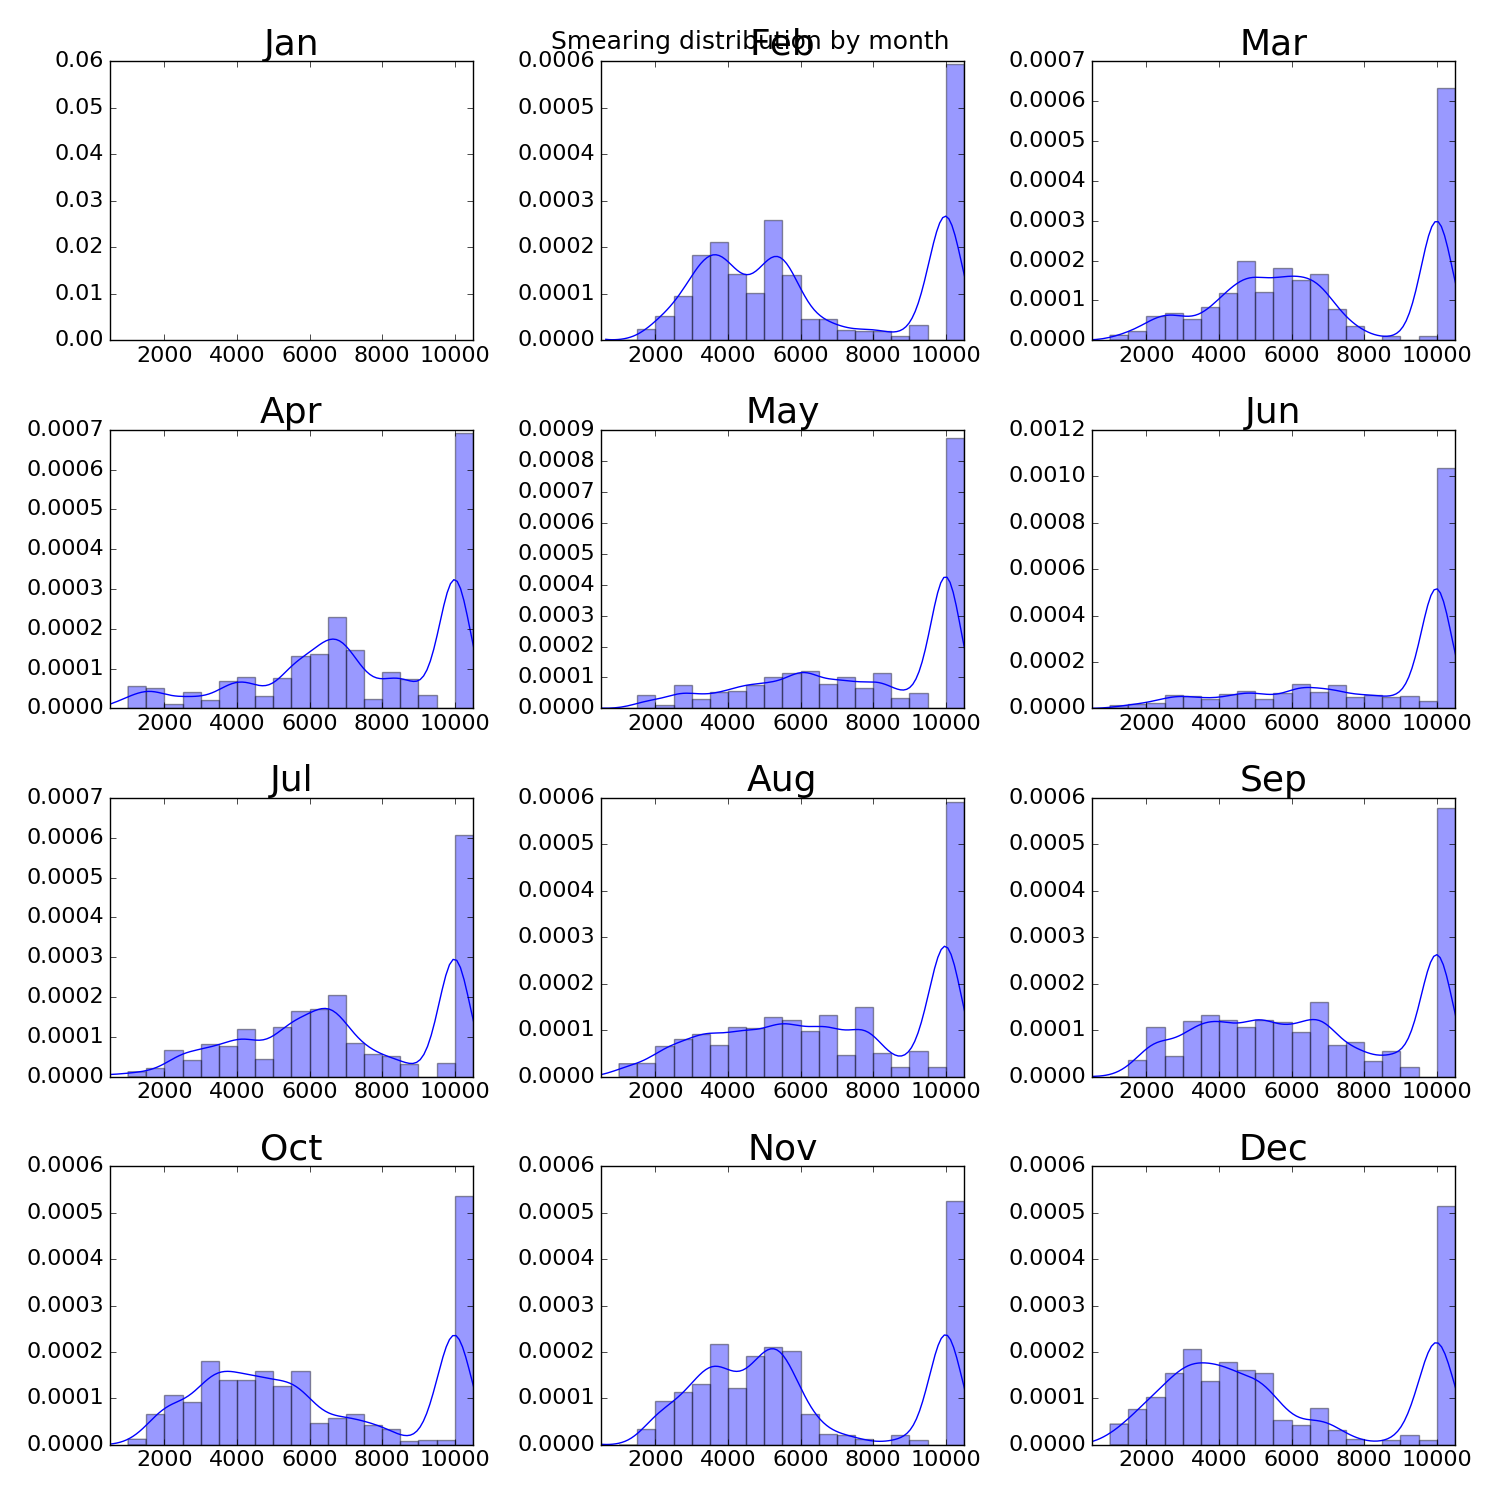
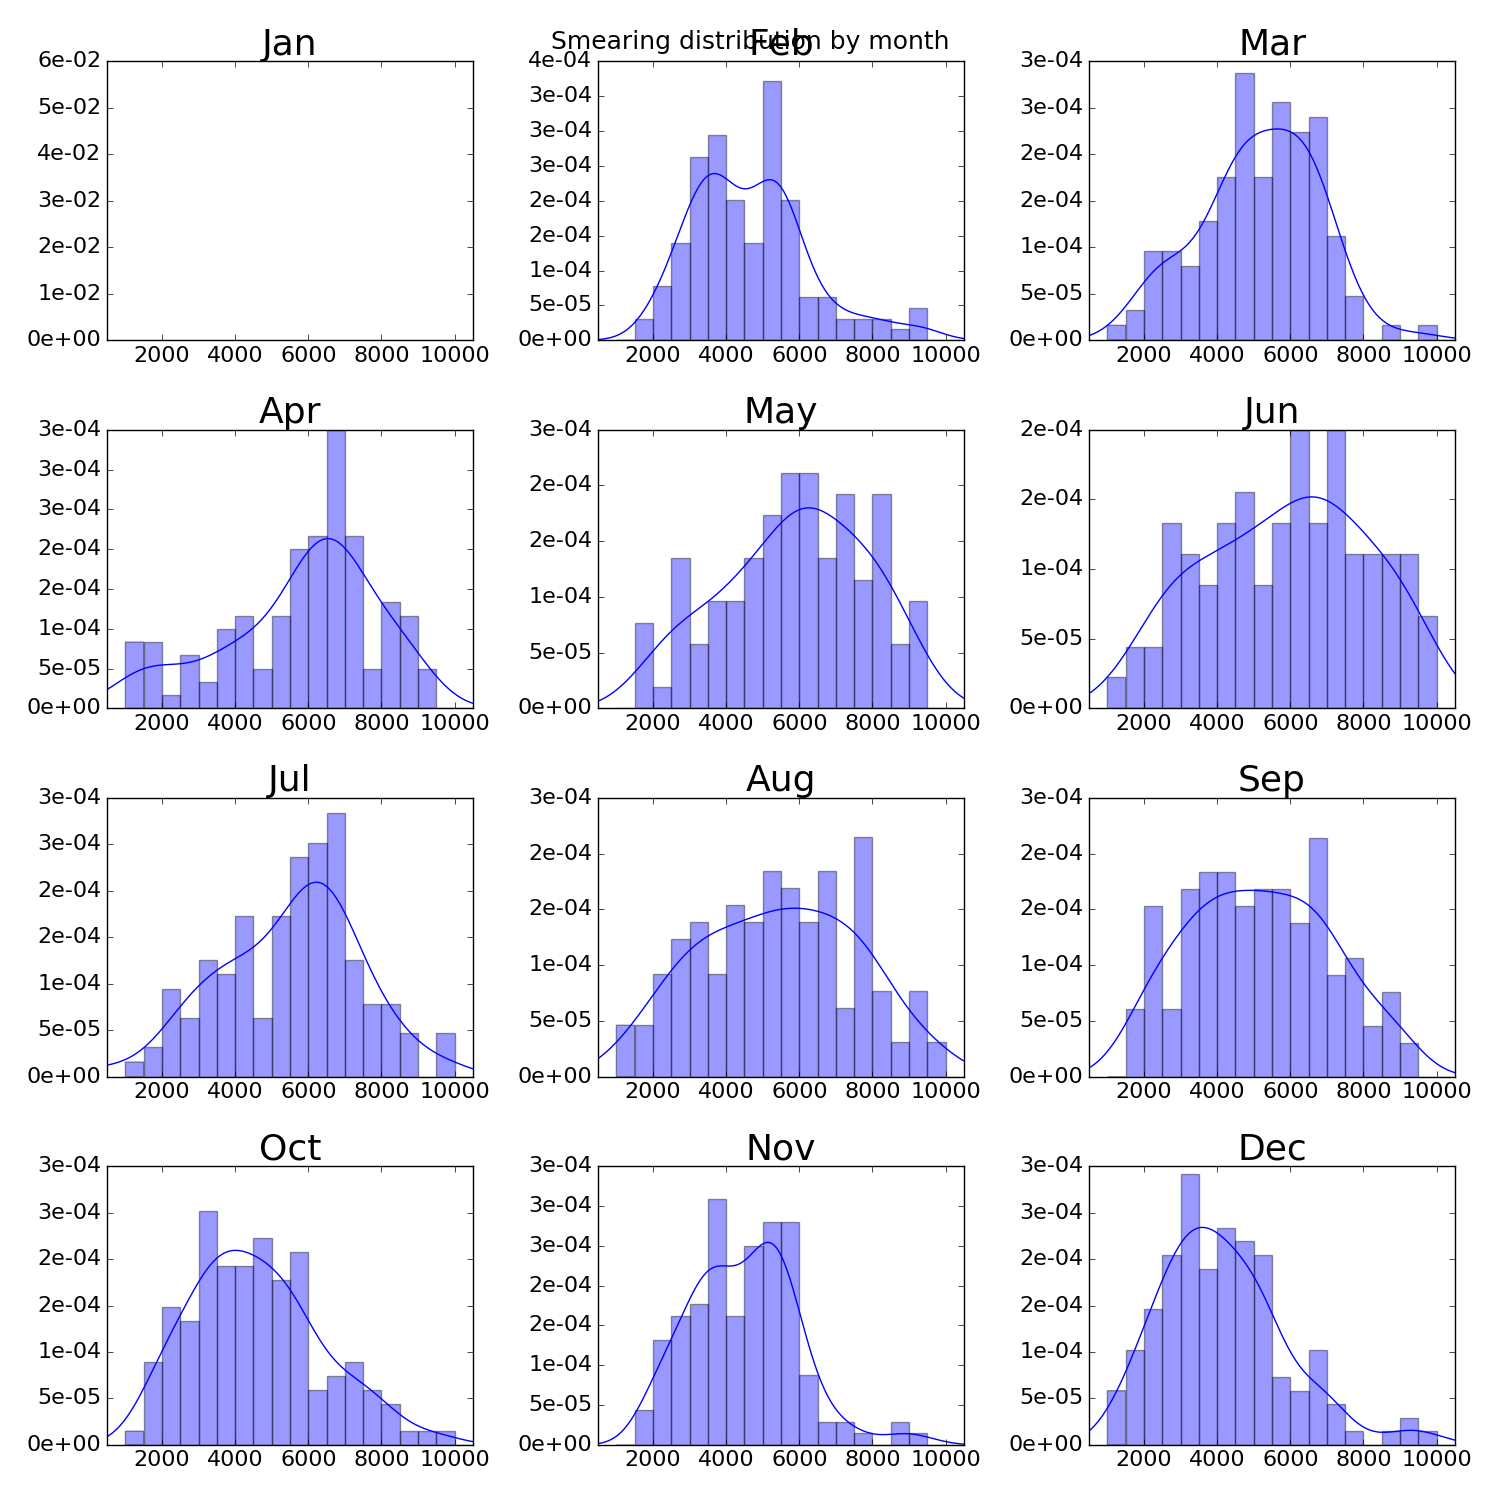
Updated smearing threshtest with maps

diff --git a/tests/test_filters.py b/tests/test_filters.py
@@ -1185,7 +1185,7 @@ def smoke_vs_fire(d0=datetime(2005,1,1),dN=datetime(2005,1,31),region=__AUSREGIO
     print("Saved figure ",pname)
 
 
-def smearing_threshold(year=datetime(2005,1,1)):
+def smearing_threshold(year=datetime(2005,1,1), strict=4000, loose=6000):
     '''
     '''
     # Read smearing from E_new
@@ -1199,12 +1199,36 @@ def smearing_threshold(year=datetime(2005,1,1)):
     else:
         lats=enew.lats_lr
         lons=enew.lons_lr
+    mstr=[d.strftime('%b') for d in util.list_months(d0,dn)]
 
 
+    # Plot map of smearing for each month.
+    plt.figure(figsize=(15,15))
+    for i in range(12):
+        plt.subplot(4,3,i+1)
+        smeari=smear[i]
+        bmap,cs,cb=pp.createmap(smeari,lats,lons,region=pp.__AUSREGION__,
+                                linear=True,vmin=1000,vmax=10000)
+
+        plt.title(mstr[i])
+
+        # Add diamond over strict threshold
+        pp.add_marker_to_map(bmap, smeari>strict, lats, lons, marker='d',
+                             landonly=False, markersize=10, color='r')
+
+        # Add dot over loose threshold
+        pp.add_marker_to_map(bmap, smeari>loose, lats, lons, marker='o',
+                             landonly=False, markersize=8, color='k')
+
+    plt.tight_layout()
+    plt.suptitle('Smearing by month')
+    pname='Figs/Filters/smearing_maps_2005.png'
+    plt.savefig(pname)
+    plt.close()
+    print("SAVED FIGURE ", pname)
 
     # Plot distribution of smearing for each month...
     plt.figure(figsize=(15,15))
-    mstr=[d.strftime('%b') for d in util.list_months(d0,dn)]
     for i in range(12):
         plt.subplot(4,3,i+1)
         #plt.subplot(1,2,i+1)
@@ -1216,12 +1240,16 @@ def smearing_threshold(year=datetime(2005,1,1)):
         # format yaxis
         plt.gca().yaxis.set_major_formatter(matplotlib.ticker.FuncFormatter('{0:.0e}'.format))
         #plt.ylim([0,4e-4])
-    plt.suptitle('Smearing distribution by month')
     plt.tight_layout()
+    plt.suptitle('Smearing distribution by month')
     pname='Figs/Filters/smearing_distr_2005.png'
     plt.savefig(pname)
     plt.close()
     print("SAVED FIGURE ", pname)
+
+
+
+
 
 def smearing_regridding(date=datetime(2005,1,1)):
     '''

diff --git a/utilities/plotting.py b/utilities/plotting.py
@@ -1052,7 +1052,6 @@ def plot_yearly_cycle(data,dates, **plotargs):
     plt.xlim([-5,370])
     plt.xlabel('DOY')
 
-
 def add_dots_to_map(bmap, lats, lons, region, cmapname='rainbow', add_rectangle=True, landonly=True):
     '''
         Add dots (optionally coloured) to the bmap
@@ -1085,3 +1084,24 @@ def add_dots_to_map(bmap, lats, lons, region, cmapname='rainbow', add_rectangle=
             mx,my = bmap(lons[x], lats[y])
             bmap.plot(mx, my, 'o', markersize=5, color=colors[ii])
     return colors
+
+def add_marker_to_map(bmap, mask, lats, lons, marker='o', landonly=False, **bmapargs):
+    '''
+        Add marker (optionally coloured) to the bmap
+        lats, lons will be subset to subregion
+        bmapargs can include (EG)
+            markersize=5, color='r',
+    '''
+
+    oceanmask=util.oceanmask(lats,lons, inlands=False)
+
+    for y in range(len(lats)):
+        for x in range(len(lons)):
+            # Don't do oceanic squares
+            if landonly and oceanmask[y,x]:
+                continue
+
+            # Add mark to map (if true in mask array)
+            if mask[y,x]:
+                mx,my = bmap(lons[x], lats[y])
+                bmap.plot(mx, my, marker=marker, **bmapargs)

diff --git a/classes/E_new.py b/classes/E_new.py
@@ -121,7 +121,7 @@ class E_new:
                 data0=np.array(E_new_list[0][key])
 
                 data=np.zeros([n_months, data0.shape[0], data0.shape[1]])
-
+                data[0] = data0
 
                 # for each extra month, append onto time dim:
                 for i in range(1,n_months):
